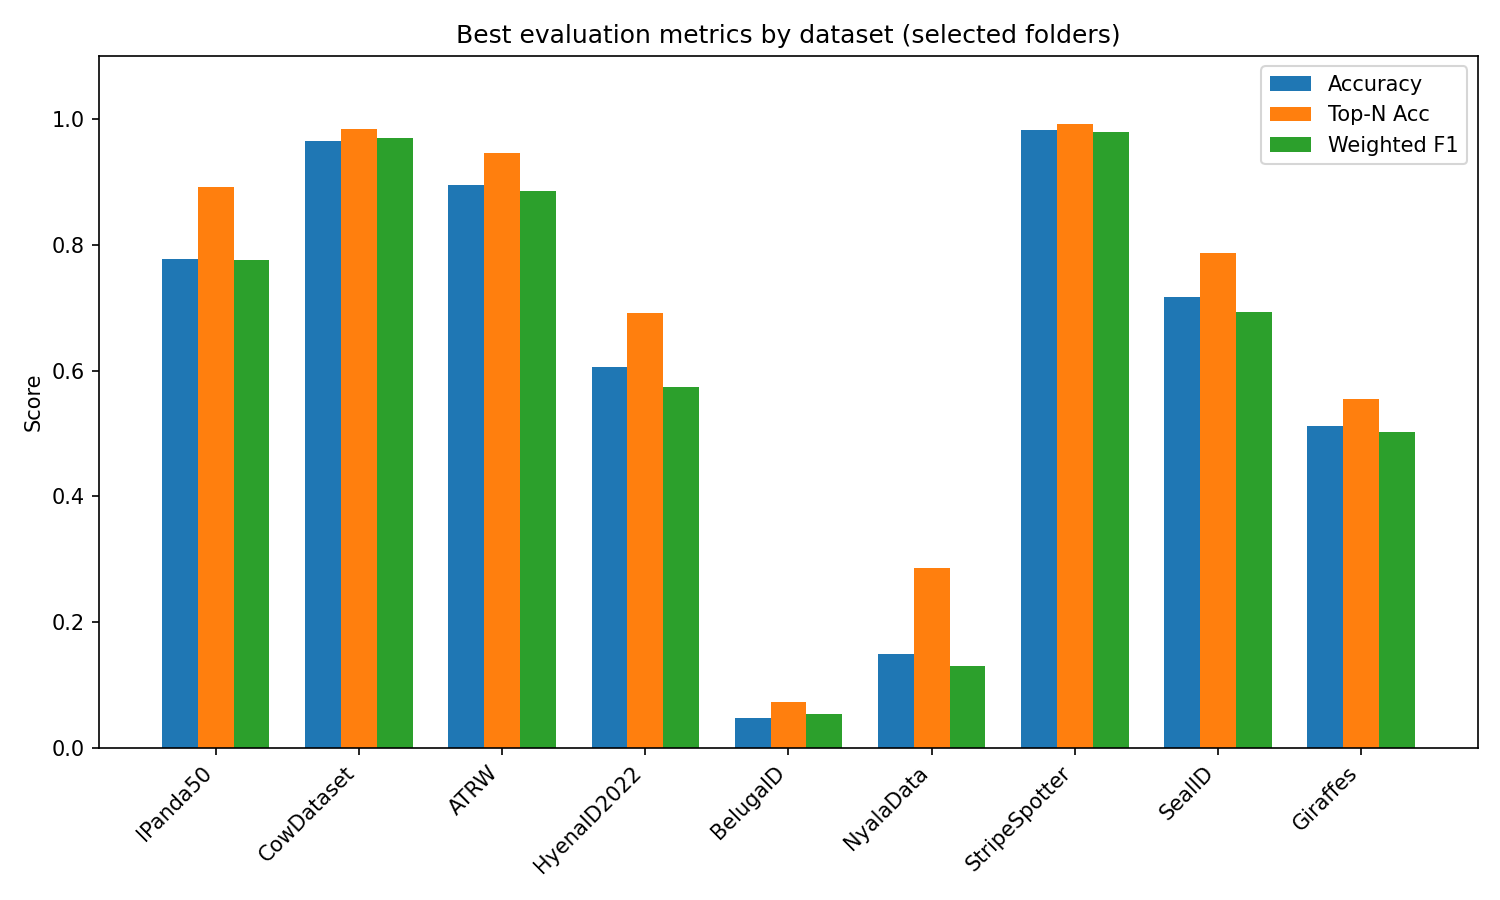
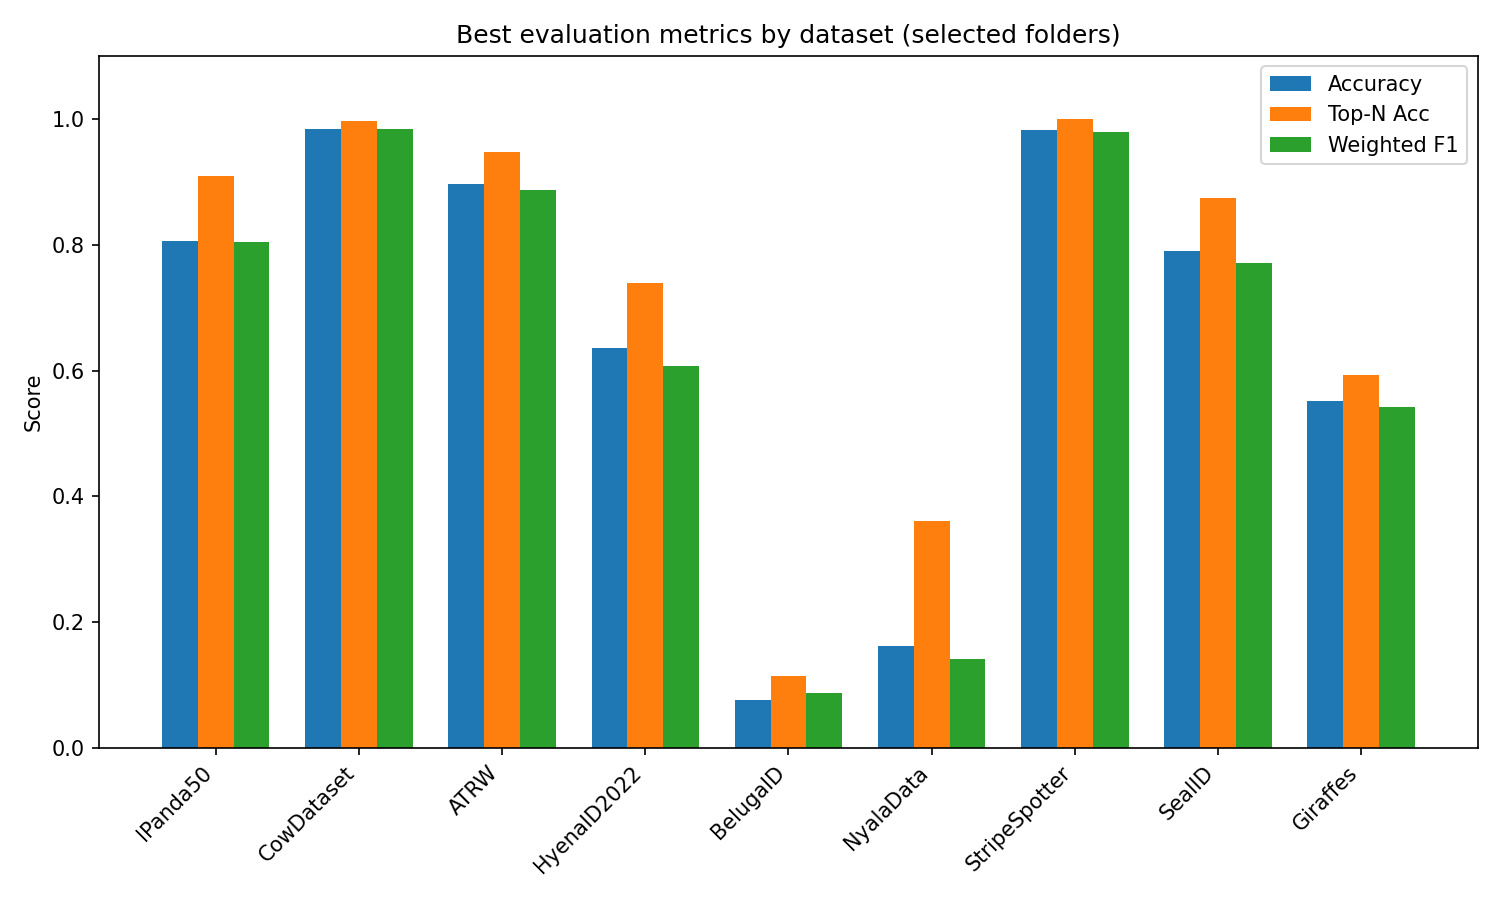
some updates

diff --git a/nested_importance_sampling.py b/nested_importance_sampling.py
@@ -31,6 +31,7 @@ def nested_importance_sampling(
     n_neighbors: int = 10,
     label_error_rate: float = 0.0,
     return_stats: bool = False,
+    automated_mode: bool = False,
 ) -> Union[Tuple[float, float], Tuple[float, float, Dict[str, Any]]]:
     """Nested Importance Sampling with *gated* human‑(label) feedback and
     **built‑in bookkeeping** for debugging / ablation studies.
@@ -40,7 +41,7 @@ def nested_importance_sampling(
     fisher_vectors : Dict[str, np.ndarray]
         Image‑id → Fisher vector.
     labels : Dict[str, int]
-        Image‑id → ground‑truth individual ID.
+        Image‑id → ground‑truth individual ID (ignored if automated_mode=True).
     keypoints / descriptors : Dicts or ``None``
         Required for geometric verification.
     use_geometric : bool, default=True
@@ -58,6 +59,9 @@ def nested_importance_sampling(
             * ``gv_passes``     – pairs that passed the GV gate
             * ``label_queries`` – how many times we actually looked at a label
             * ``matches``       – how many of those queries were positive (same ID)
+    automated_mode : bool, default=False
+        If True, uses only geometric verification without human labels.
+        Faster but potentially less accurate than human-in-the-loop mode.
 
     Returns
     -------
@@ -67,9 +71,8 @@ def nested_importance_sampling(
         See *return_stats* description.
     """
 
-    # --------------------------------------------------------------------- #
-    # 1.   Build similarity graph & vertex proposal distribution            #
-    # --------------------------------------------------------------------- #
+
+    # 1. Build similarity graph & vertex proposal distribution
     image_ids = list(fisher_vectors.keys())
     vectors = [fisher_vectors[i] for i in image_ids]
     sim = cosine_similarity_matrix(vectors)
@@ -81,32 +84,26 @@ def nested_importance_sampling(
     rng = np.random.default_rng()
     population_estimates = []
 
-    # ------------------------------------------------------------------ #
-    #  ‑‑ Book‑keeping variables                                         #
-    # ------------------------------------------------------------------ #
     total_pairs: int = 0
     gv_attempts: int = 0
     gv_passes: int = 0
     label_queries: int = 0
     positive_matches: int = 0
 
-    # ------------------------------------------------------------------ #
     # 2.   Outer vertex loop                                             #
-    # ------------------------------------------------------------------ #
     outer_vertices = rng.choice(len(image_ids), size=min(n_vertices, len(image_ids)), replace=False, p=Q)
     for u_idx in outer_vertices:
         q = sim[u_idx].copy()
         if q.sum() == 0.0:
             q = np.ones_like(q)
+        q[q == 0.0] = 1e-9
         q /= q.sum()
 
         neighbors = rng.choice(len(image_ids), size=min(n_neighbors, len(image_ids)), replace=False, p=q)
 
         fb_list = []
 
-        # -------------------------------------------------------------- #
-        # 3.   Inner neighbour loop with GV gate                        #
-        # -------------------------------------------------------------- #
+        # 3. Inner neighbour loop with GV gate  
         for v_idx in neighbors:
             total_pairs += 1
 
@@ -133,23 +130,44 @@ def nested_importance_sampling(
                     gv_pass = (dist < gv_threshold) and (n_inliers >= MIN_INLIERS)
                     if gv_pass:
                         gv_passes += 1
-                        # ask the human (label) only now
-                        label_queries += 1
-                        match = 1 if labels.get(u_id) == labels.get(v_id) else 0
-                        if match:
-                            positive_matches += 1
-                        # simulate annotation mistake
-                        if label_error_rate > 0.0 and rng.random() < label_error_rate:
-                            match = 1 - match
+                        
+                        if automated_mode:
+                            # Pure geometric verification with confidence weighting
+                            confidence = min(1.0, n_inliers / 20.0)  # Normalize inliers to confidence
+                            geometric_quality = 1.0 - dist  # Higher quality = lower distance
+                            
+                            # Combine geometric confidence with Fisher similarity
+                            overall_confidence = 0.6 * geometric_quality + 0.4 * confidence
+                            
+                            # Use probabilistic matching instead of hard binary
+                            match = overall_confidence if overall_confidence > 0.5 else 0
+                            if match > 0:
+                                positive_matches += 1
+                        else:
+                            # ask the human (label) only now
+                            label_queries += 1
+                            match = 1 if labels.get(u_id) == labels.get(v_id) else 0
+                            if match:
+                                positive_matches += 1
+                            # simulate annotation mistake
+                            if label_error_rate > 0.0 and rng.random() < label_error_rate:
+                                match = 1 - match
                 # else: skip GV → match stays 0
             else:
                 # Legacy path: direct label query, no gate
-                label_queries += 1
-                match = 1 if labels.get(u_id) == labels.get(v_id) else 0
-                if match:
-                    positive_matches += 1
-                if label_error_rate > 0.0 and rng.random() < label_error_rate:
-                    match = 1 - match
+                if automated_mode:
+                    # In automated mode without GV, fall back to Fisher vector similarity
+                    fd = fisher_distance(fisher_vectors[u_id], fisher_vectors[v_id])
+                    match = 1 if fd < gv_threshold else 0  # Use similarity threshold
+                    if match:
+                        positive_matches += 1
+                else:
+                    label_queries += 1
+                    match = 1 if labels.get(u_id) == labels.get(v_id) else 0
+                    if match:
+                        positive_matches += 1
+                    if label_error_rate > 0.0 and rng.random() < label_error_rate:
+                        match = 1 - match
 
             fb_list.append(match)
 

diff --git a/main.py b/main.py
@@ -68,6 +68,8 @@ if __name__ == '__main__':
                         help='Fraction of pair labelings to flip during counting')
     parser.add_argument('--gv_threshold', type=float, default=0.75,
                         help='Geometric verification distance threshold')
+    parser.add_argument('--automated_mode', action='store_true', default=False,
+                        help='Use fully automated counting without human labels (faster but potentially less accurate)')
 
     args = parser.parse_args()
     args.split_type = 'closed'
@@ -441,7 +443,7 @@ if __name__ == '__main__':
                 fisher_vectors = compute_fisher_vectors(descriptors, pca, gmm)
                 save_stuff(pca, gmm, fisher_vectors, (pca_path, gmm_path, fv_path))
 
-        labels = dict(zip(df["image_id"], df["identity"]))
+        labels = dict(zip(df["image_id"], df["identity"])) if not args.automated_mode else {}
         estimate, se, stats = nested_importance_sampling(
             fisher_vectors,
             labels,
@@ -454,7 +456,8 @@ if __name__ == '__main__':
             n_vertices=args.num_vertices,
             n_neighbors=args.num_neighbors,
             label_error_rate=args.label_error_rate,
-            return_stats = True
+            return_stats = True,
+            automated_mode=args.automated_mode
         )
         runtime = time.time() - start_time
         print(f"Estimated individuals: {estimate:.2f} \u00b1 {se:.2f}")
@@ -477,6 +480,7 @@ if __name__ == '__main__':
                 "MAX GMM Descriptors": MAX_GMM_DESCRIPTORS,
                 "GV Threshold": args.gv_threshold,
                 "Error Rate": args.label_error_rate,
+                "Automated Mode": args.automated_mode,
                 "Result": round(float(estimate), 2),
                 "Std Error": round(float(se), 2),
                 "Runtime (minutes)": round(float(runtime) / 60, 2) ,

diff --git a/constants.py b/constants.py
@@ -52,7 +52,7 @@ TMP = './data/tmp/'
 # Evaluation results directory
 EVALUATION_DIR = './evaluations/full_evals'
 # XLSX file for saving population counting results
-COUNT_RESULTS_XLSX = './evaluations/count/population_counting_results_ensamble.xlsx'
+COUNT_RESULTS_XLSX = './evaluations/count/population_counting_results_ensamble_automated.xlsx'
 EVAL_RESULTS_XLSX = './evaluations/classification/classification_results_ensamble_test_2.xlsx'
 
 WILD_DATASET_PATH = './data/wildlifedatasets/wildlifereid-10k/versions/7'
@@ -65,7 +65,7 @@ PATCH_SIZE = 32
 RATIO_THRESHOLD = 0.8           # Lowe's ratio test threshold for feature matching
 INLIER_THRESHOLD = 0.5        # RANSAC inlier threshold for animal re-identification
 MIN_MATCHES = 4                 # Minimum number of matches required for RANSAC
-MIN_INLIERS = 10                 # Minimum number of inliers for reliable geometric verification
+MIN_INLIERS = 5                 # Minimum number of inliers for reliable geometric verification
 INSUFFICIENT_MATCHES_PENALTY = 10.0  # Penalty multiplier for insufficient matches
 POOR_GEOMETRY_PENALTY = 5.0     # Penalty multiplier for poor geometric consistency
 FISHER_DISTANCE_MIN_CLAMP = 0.01     # Minimum clamp value for Fisher distance
@@ -87,7 +87,7 @@ MAX_FEATURES_PER_SCALE = 2000  # Limit features to control memory usage
 ENABLE_MULTISCALE = False  # Toggle for easy comparison with single-scale
 
 
-MAX_GMM_DESCRIPTORS = 2000000000
+MAX_GMM_DESCRIPTORS = 7000000000
 # Cap descriptors contributed by each image when stacking for PCA/GMM training.
 MAX_DESCRIPTORS_PER_IMAGE = 5000
 

diff --git a/README.md b/README.md
@@ -87,6 +87,25 @@ python main.py --count --ds ATRW --num_vertices 150 --num_neighbors 20
 - **`--count`**: Enables population size estimation.
 - **`--num_vertices`**: Number of sampled vertices.
 - **`--num_neighbors`**: Number of neighbours per vertex.
+- **`--automated_mode`**: Use fully automated counting without human labels (faster but potentially less accurate).
+
+#### Automated vs Human-in-the-Loop Modes
+
+**Human-in-the-Loop Mode (default)**:
+```bash
+python main.py --count --ds ATRW --use_geometric_verification --use_lightglue
+```
+- Uses geometric verification to filter pairs
+- Queries ground truth labels only for geometrically consistent pairs
+- More accurate but requires labeled data
+
+**Fully Automated Mode**:
+```bash
+python main.py --count --ds ATRW --use_geometric_verification --use_lightglue --automated_mode
+```
+- Uses only geometric verification without any labels
+- Faster execution and works with unlabeled data
+- Assumes geometric consistency = same individual
 
 ## **Data Structure**
 
